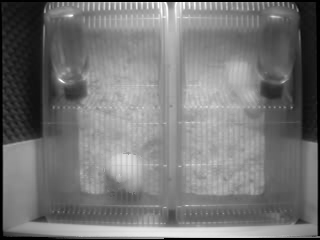
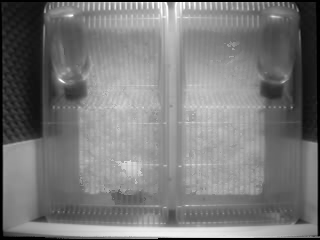
* complete my KDE

diff --git a/MainFrame.cpp b/MainFrame.cpp
@@ -364,8 +364,7 @@ void MainFrame::OnViewMsgPane(wxCommandEvent& event)
 void MainFrame::OnVideoBGSProcess(wxCommandEvent& event)
 {
 	DeleteContents();
-		
-	
+			
 	cv::VideoCapture vidCap;
 	vidCap.open(m_Filename.ToStdString());
 	if(vidCap.isOpened()==false) {
@@ -374,17 +373,8 @@ void MainFrame::OnVideoBGSProcess(wxCommandEvent& event)
 	}
 	myMsgOutput( "\nLoad ... " + m_Filename + " OK\n");
 	
+	readProperties(vidCap);	
 	wxString msg;
-	wxString str = m_textCtrlFrameWait->GetValue();
-	str.ToLong(&m_waitTime);
-	
-	str = m_textCtrlStartFrame->GetValue();
-	str.ToLong(&m_startFrame);	
-	
-	str = m_textCtrlSampling->GetValue();
-	str.ToLong(&m_Sampling);
-	if(m_Sampling<=0) m_Sampling = 1;
-	
 	msg.Printf("Wait time: %d ms,  startFrame: %d, sampling: %d\n", m_waitTime, m_startFrame, m_Sampling);
 	myMsgOutput( msg);
 	
@@ -402,7 +392,6 @@ void MainFrame::OnVideoBGSProcess(wxCommandEvent& event)
 		case 2:
 			break;
 	}
-
 }
 void MainFrame::OnBookPageChanged(wxAuiNotebookEvent& event)
 {
@@ -484,30 +473,14 @@ void MainFrame::OnVideoFrameProcessor(wxCommandEvent& event)
 		myMsgOutput( "Load ... " + m_Filename + " ERROR\n");
 		return;
 	}
-	double fps = vidCap.get(CV_CAP_PROP_FPS);
-	int width = vidCap.get(CV_CAP_PROP_FRAME_WIDTH );
-	int height = vidCap.get(CV_CAP_PROP_FRAME_HEIGHT );
-	
-	wxString str;
-	str.Printf("W %d, H %d", width, height);
-	m_statusBar->SetStatusText(str, 2);
-	
-	str = m_textCtrlFrameWait->GetValue();
-	str.ToLong(&m_waitTime);	
-	
-	str = m_textCtrlStartFrame->GetValue();
-	str.ToLong(&m_startFrame);
-	
-	str = m_textCtrlSampling->GetValue();
-	str.ToLong(&m_Sampling);
-	if(m_Sampling<=0) m_Sampling = 1;
+	readProperties(vidCap);
 	
 	SaveGlobalPara();
 //	destroyAllWindows();
 	wxString strBGS = m_listBoxBGS->GetString(selBGS);	
 	wxString msg;
 	msg << "\nLoad ... " << m_Filename << " OK\nDo " << strBGS << ", wait " << m_waitTime << " ms\n";
-	msg << fps << " fps, start frame: " << m_startFrame << ", sampling " << m_Sampling << "\n";
+	msg << m_fps << " fps, start frame: " << m_startFrame << ", sampling " << m_Sampling << "\n";
 	myMsgOutput(msg );
 	
 	IBGS *bgs = createBGSObj(strBGS);
@@ -518,8 +491,6 @@ void MainFrame::OnVideoFrameProcessor(wxCommandEvent& event)
 	
 	m_pPreProcessor = new bgslibrary::PreProcessor;	
 	
-//	frameProcessor = new FrameProcessor;
-//	frameProcessor->init();
 /*
 	int64 start_time;
     int64 delta_time;
@@ -531,6 +502,7 @@ void MainFrame::OnVideoFrameProcessor(wxCommandEvent& event)
 	cv::Mat img_input;
 	cv::Mat img_prep;
 	m_bStopProcess = false;
+
 	do{
 		frameNumber++;	
 		vidCap >> img_input;
@@ -557,7 +529,7 @@ void MainFrame::OnVideoFrameProcessor(wxCommandEvent& event)
 		fps = freq / delta_time;
 		 */ 
 		//std::cout << "FPS: " << fps << std::endl;
-		float sec = frameNumber /fps;
+		float sec = frameNumber /m_fps;
 		int mm = sec / 60;
 		int ss = sec - mm*60;
 		wxString str;
@@ -568,7 +540,7 @@ void MainFrame::OnVideoFrameProcessor(wxCommandEvent& event)
 		if(cv::waitKey(m_waitTime) >= 0) break;
 		
 	}while(1);	
-//	delete frameProcessor;
+
 	delete bgs;
 	
 }
@@ -650,6 +622,23 @@ IBGS * MainFrame::createBGSObj(wxString& strBGS)
 	return bgs;
 
 }
+void MainFrame::readProperties(cv::VideoCapture& vidCap)
+{
+	m_fps = vidCap.get(CV_CAP_PROP_FPS);
+	m_width = vidCap.get(CV_CAP_PROP_FRAME_WIDTH );
+	m_height = vidCap.get(CV_CAP_PROP_FRAME_HEIGHT );
+	
+	wxString str;
+	str = m_textCtrlFrameWait->GetValue();
+	str.ToLong(&m_waitTime);	
+	
+	str = m_textCtrlStartFrame->GetValue();
+	str.ToLong(&m_startFrame);
+	
+	str = m_textCtrlSampling->GetValue();
+	str.ToLong(&m_Sampling);
+	if(m_Sampling<=0) m_Sampling = 1;	
+}
 
 void MainFrame::OnVideoExtractFrames(wxCommandEvent& event)
 {
@@ -662,6 +651,7 @@ void MainFrame::OnVideoExtractFrames(wxCommandEvent& event)
 		myMsgOutput( "Load ... " + m_Filename + " ERROR\n");
 		return;
 	}
+	
 	double fps = vidCap.get(CV_CAP_PROP_FPS);
 	
 	long fromMM, fromSS, toMM, toSS, fromFrame, toFrame;
@@ -707,6 +697,7 @@ void MainFrame::OnVideoExtractFrames(wxCommandEvent& event)
 	msg.Printf("Extract frame from %02d:%02d (%d) to  %02d:%02d (%d)\n",fromMM, fromSS, fromFrame, toMM, toSS, toFrame );
 	myMsgOutput(msg);
 }
+
 void MainFrame::OnBackgroundKDE(wxCommandEvent& event)
 {
 	cv::VideoCapture vidCap;
@@ -715,23 +706,11 @@ void MainFrame::OnBackgroundKDE(wxCommandEvent& event)
 		myMsgOutput( "Load ... " + m_Filename + " ERROR\n");
 		return;
 	}
-	double fps = vidCap.get(CV_CAP_PROP_FPS);
-	int width = vidCap.get(CV_CAP_PROP_FRAME_WIDTH );
-	int height = vidCap.get(CV_CAP_PROP_FRAME_HEIGHT );
-	
-	wxString str;
-	str = m_textCtrlFrameWait->GetValue();
-	str.ToLong(&m_waitTime);	
-	
-	str = m_textCtrlStartFrame->GetValue();
-	str.ToLong(&m_startFrame);
-	
-	str = m_textCtrlSampling->GetValue();
-	str.ToLong(&m_Sampling);
-	if(m_Sampling<=0) m_Sampling = 1;
+
+	readProperties(vidCap);
 	
 	wxString msg;
-	msg.Printf("\nLoad %s, w%d x h%d, do KDE background ...\n", m_Filename, width, height);
+	msg.Printf("\nLoad %s, w%d x h%d, do KDE background ...\n", m_Filename, m_width, m_height);
 	myMsgOutput(msg );
 	
 
@@ -739,11 +718,19 @@ void MainFrame::OnBackgroundKDE(wxCommandEvent& event)
 	KDEBg kdeModel;	
 	int frameNumber = 0;
 	int counter = 0;
-	int nTrainingFrames = 100;
-	int sampling = 30;
+	int nTrainMin = 10;
+	int sampling = 200;
 	int	nKernelBW = 10;
-	float fgProb = 0.04;
-	kdeModel.init(width, height, nKernelBW, nTrainingFrames, fgProb);
+	double fgProb = 0.001;
+	int nTrainingFrames = nTrainMin*60*m_fps/sampling;	
+	
+	myMsgOutput("training %d min, %d frames, sampling %d\n", nTrainMin, nTrainingFrames, sampling);
+	kdeModel.init(m_width, m_height, nKernelBW, nTrainingFrames, fgProb);
+	for(int i=0; i<30; i++) {
+		vidCap >> img_input;
+		if (img_input.empty()) break;
+		frameNumber ++;		
+	}
 	do {
 		vidCap >> img_input;
 		if (img_input.empty()) break;
@@ -751,7 +738,7 @@ void MainFrame::OnBackgroundKDE(wxCommandEvent& event)
 			kdeModel.BuildBackgroundModel(img_input);
 			counter++;
 		}
-		float sec = frameNumber /fps;
+		float sec = frameNumber /m_fps;
 		int mm = sec / 60;
 		int ss = sec - mm*60;
 		wxString str;
@@ -762,9 +749,15 @@ void MainFrame::OnBackgroundKDE(wxCommandEvent& event)
 	}while(counter < nTrainingFrames);
 	kdeModel.CreateBackgroundImage();
 	
+	vidCap.release();
+	vidCap.open(m_Filename.ToStdString());
+	if(vidCap.isOpened()==false) {
+		myMsgOutput( "Load ... " + m_Filename + " ERROR\n");
+		return;
+	}
 	
 	m_bStopProcess = false;
-	cv::Mat matOut(height, width, CV_8UC1);
+	cv::Mat matOut(m_height, m_width, CV_8UC1);
 	
 	do {
 		vidCap >> img_input;
@@ -774,7 +767,7 @@ void MainFrame::OnBackgroundKDE(wxCommandEvent& event)
 		cv::imshow("Input", img_input);
 		cv::imshow( "MovingObject", matOut );
 		
-		float sec = frameNumber /fps;
+		float sec = frameNumber /m_fps;
 		int mm = sec / 60;
 		int ss = sec - mm*60;
 		wxString str;

diff --git a/KDEBg.cpp b/KDEBg.cpp
@@ -1,8 +1,8 @@
 #include "KDEBg.h"
 #include <memory.h>
 #include <gsl/gsl_sort_float.h>
+#include <gsl/gsl_sort.h>
 
-//float gKDEBG[VIDEO_W][VIDEO_H][KDE_HISTO];
 
 KDEBg::KDEBg()
 {
@@ -17,7 +17,7 @@ KDEBg::~KDEBg()
 }
 
 
-void KDEBg::init(int w, int h, int nBandWidth, int nBGframes, float fgProb)
+void KDEBg::init(int w, int h, int nBandWidth, int nBGframes, double fgProb)
 {
 	m_nWidth = w;
 	m_nHeight = h;
@@ -29,9 +29,8 @@ void KDEBg::init(int w, int h, int nBandWidth, int nBGframes, float fgProb)
 	memset(m_bgModel, 0, sizeof(_BackGround)*m_szImage);
 
 	m_kernel.resize(2*m_nKnlBW + 1); 
-	float x;
 	for(int i=-m_nKnlBW; i<=m_nKnlBW; i++) {
-		x = (float)i/m_nKnlBW;
+		double x = (double)i/m_nKnlBW;
 		m_kernel[i+m_nKnlBW] = (1.0-x*x)/ (m_nBGframes*m_nKnlBW);   // 或者後面再 /= m_frameCount*h
 	}
 
@@ -44,7 +43,7 @@ void KDEBg::BuildBackgroundModel(cv::Mat mIn)
  
 	for(int i=0; i<m_szImage; i++) {
 		int v, pixelIdx;
-		float p;
+		double p;
 
 		pixelIdx = 3*i;
 
@@ -72,17 +71,17 @@ void KDEBg::CreateBackgroundImage()
 //#pragma omp parallel for private(maxH, maxS, maxV, maxIdxH, maxIdxS, maxIdxV)
 //	float h[KDE_BIN_H];
 //	float s[KDE_BIN_S];
-	float v[KDE_BIN_V];
+	double v[KDE_BIN_V];
 //	size_t hIdx[KDE_BIN_H];
 //	size_t sIdx[KDE_BIN_S];
 	size_t vIdx[KDE_BIN_V];	
 
 //	float thH = 0.05;
 //	float thS = 0.05;
-	float thV = 0.05;
+	double thV = 0.03;
 		
 	for(int i=0; i<m_szImage; i++) {
-		float sum = 0;
+		double sum = 0;
 /*		
 		for(int j=0; j<KDE_BIN_H; j++) 
 			sum += m_bgModel[i].h[j];
@@ -108,9 +107,9 @@ void KDEBg::CreateBackgroundImage()
 
 //		gsl_sort_float_index(hIdx, h, 1, KDE_BIN_H);
 //		gsl_sort_float_index(sIdx, s, 1, KDE_BIN_S);
-		gsl_sort_float_index(vIdx, v, 1, KDE_BIN_V);
+		gsl_sort_index(vIdx, v, 1, KDE_BIN_V);
 
-		float sum =0;
+		double sum =0;
 /*		
 		for(int j=0; j<KDE_BIN_H; j++) {
 			m_bgModel[i].fgbg_h[hIdx[j]] = 1;
@@ -152,14 +151,15 @@ void KDEBg::DetectMovingObject(cv::Mat& matIn, cv::Mat& matOut)
 //#pragma omp parallel for // useless
 	for(int i=0; i<m_szImage; i++) {
 //		double prob_h, prob_s, prob_v, prob_all_channels, maxP;
-
+		double prob_v = m_bgModel[i].v[inputFrame[3*i]];
 //		prob_all_channels = prob_r * prob_g * prob_b;
 		//if( prob_h <= m_fg_prob && prob_s<= m_fg_prob && prob_v<= m_fg_prob)
 //		fH = m_bgModel[i].fgbg_h[inputFrame[3*i]];
 //		fS = m_bgModel[i].fgbg_s[inputFrame[3*i+1]];
-		fV = m_bgModel[i].fgbg_v[inputFrame[3*i+2]];
+//		fV = m_bgModel[i].fgbg_v[inputFrame[3*i+2]];
 
-		if(fH && fS && fV) {
+//		if(fH && fS && fV) {
+		if(prob_v < m_fg_prob){
 			if(matOut.type()==CV_8UC3) {
 				maskOut[3*i] = 255;
 				maskOut[3*i+1] = 255;

diff --git a/KDEBg.h b/KDEBg.h
@@ -11,7 +11,7 @@
 struct _BackGround {
 //	float h[KDE_BIN_H];	// h
 //	float s[KDE_BIN_S];	// s
-	float v[KDE_BIN_V];	// v
+	double v[KDE_BIN_V];	// v
 
 //	char fgbg_h[KDE_BIN_H];
 //	char fgbg_s[KDE_BIN_S];
@@ -25,7 +25,7 @@ public:
 	KDEBg();
 	~KDEBg();
 
-	void	init(int w, int h, int nBandWidth, int nBGframes, float fgProb);
+	void	init(int w, int h, int nBandWidth, int nBGframes, double fgProb);
 	void 	BuildBackgroundModel(cv::Mat mIn);
 	void	CreateBackgroundImage();
 	void	DetectMovingObject(cv::Mat& matIn, cv::Mat& matOut);
@@ -35,8 +35,8 @@ public:
 	int		m_szImage;
 	int		m_nKnlBW;
 	int		m_nBGframes;
-	float	m_fg_prob;
-	std::vector<float> m_kernel;
+	double	m_fg_prob;
+	std::vector<double> m_kernel;
 	_BackGround * m_bgModel;
 };
 

diff --git a/MainFrame.h b/MainFrame.h
@@ -50,6 +50,8 @@ public:
 	void SavePageKDE();
 	void SetGlobalPara();
 	void SaveGlobalPara();
+	void readProperties(cv::VideoCapture& vidCap);
+	
 	static MainFrame *	m_pThis;
 	wxFileHistory* 		m_FileHistory;
 	wxString			m_Filename;
@@ -59,16 +61,17 @@ public:
 	wxString 		m_strSourcePath;
 
 ///////////////////// bgs	
-
-//	IBGS *m_bgs;
 	cv::Mat m_mMask;
     cv::Mat m_mbkgmodel;
     bgslibrary::PreProcessor* m_pPreProcessor;
-//	bgslibrary::FrameProcessor* frameProcessor;
+
 	bool m_bStopProcess;
 	long m_waitTime;
 	long m_startFrame;
 	long m_Sampling;
+	int  m_width;
+	int  m_height;
+	double m_fps;
 	
 ///////////////////// KDE
 	int framesToLearn;	
